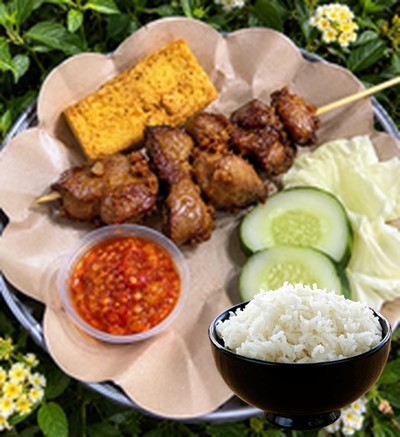
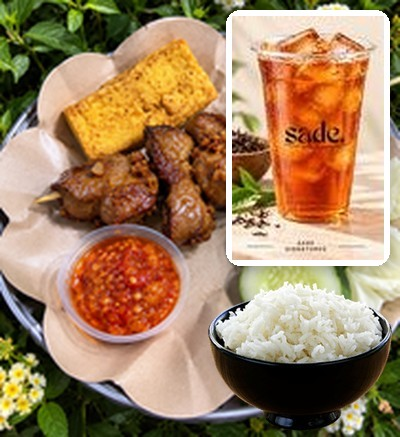
Paket combo: keterangan termasuk Es Teh Regular + foto teh di semua paket
Claude-Session: https://claude.ai/code/session_01Acsdf56UjXXRX4DBNYomy2

Changed region(s): [[0.54, 0.0, 0.99, 0.6247]]

diff --git a/index.html b/index.html
@@ -45,6 +45,7 @@ h1{margin:0;font-size:36px;font-weight:800;letter-spacing:-.02em;color:var(--acc
 .ph.drink{object-fit:contain;background:#FBEFE4}
 .ph.none{display:flex;align-items:center;justify-content:center;color:#A0785E;font-size:12px;font-weight:600}
 .ct{display:flex;justify-content:space-between;align-items:flex-start;gap:8px;font-weight:700;font-size:15px;line-height:1.3}
+.inc{align-self:flex-start;margin-top:-6px;background:#FFF1D2;color:#8A0F14;border:1px solid var(--yel);border-radius:99px;padding:3px 10px;font-size:12px;font-weight:700}
 .ct b{font-weight:800;white-space:nowrap;background:var(--yel);color:#5A0A0D;border-radius:99px;padding:3px 10px;font-size:14px}
 .lbl{font-size:12px;font-weight:700;color:var(--mute);margin-bottom:6px}
 .sizes{display:flex;gap:6px}
@@ -239,7 +240,7 @@ var MENU = [
   ['Tea & Fresh','Tea Sade',6000,8000],['Tea & Fresh','Lemon Tea',8000,10000],['Tea & Fresh','Thai Tea',10000,12000],['Tea & Fresh','Iced Orange',8000,10000],
   ['Mocktail','Coffee Cola',13000,15000],['Mocktail','Blue Ocean',13000,15000],['Mocktail','Mountain Dew',13000,15000],['Mocktail','Blue Lagoon',13000,15000],['Mocktail','Berry Orange',13000,15000]
 ];
-var HINT = {'Combo Deals':'Sudah termasuk minuman · NDJ = Nasi Daun Jeruk, NP = Nasi Putih','Lalapan':'Tanpa nasi, tambah nasi di kategori Nasi'};
+var HINT = {'Combo Deals':'Semua paket sudah termasuk Es Teh (Regular) · NDJ = Nasi Daun Jeruk, NP = Nasi Putih','Lalapan':'Tanpa nasi, tambah nasi di kategori Nasi'};
 var DRINKS = ['Coffee','Latte Series','Tea & Fresh','Mocktail'];
 var HARGA_SAMBEL = 3000;   // extra sambel, hanya untuk Lalapan yang dibungkus/diantar
 /* ============================================== */
@@ -277,6 +278,7 @@ function renderMenu(){
     var key = i + '_' + (x[3] ? sz : '');
     h += '<div class="card"><img class="ph'+(drink?' drink':'')+'" src="'+foto(x)+'" alt="'+esc(x[1])+'" loading="lazy" onerror="this.outerHTML=\'<div class=&quot;ph none&quot;>Foto menu</div>\'">'
       + '<div class="ct"><span>'+esc(x[1])+'</span><b class="num">'+rp(price)+'</b></div>'
+      + (x[0] === 'Combo Deals' ? '<div class="inc">Termasuk Es Teh (Regular)</div>' : '')
       + (x[3] ? '<div><div class="lbl">Ukuran</div><div class="sizes"><button type="button" class="sz" data-size="'+i+'" data-v="R" aria-pressed="'+(sz==='R')+'">Regular</button><button type="button" class="sz" data-size="'+i+'" data-v="L" aria-pressed="'+(sz==='L')+'">Large</button></div></div>' : '')
       + '<div class="act"><div class="step"><button type="button" data-q="'+i+'" data-d="-1" aria-label="Kurangi jumlah">−</button><span class="num">'+qty+'</span><button type="button" data-q="'+i+'" data-d="1" aria-label="Tambah jumlah">+</button></div>'
       + '<button type="button" class="add" data-add="'+i+'">'+(S.added===key?'Ditambahkan ✓':'Tambah')+'</button></div></div>';
@@ -307,7 +309,7 @@ function lines(){
 function baseLines(){
   return Object.keys(S.cart).sort(function(a,b){ return parseInt(a,10)-parseInt(b,10); }).map(function(k){
     var p = k.split('_'), x = MENU[+p[0]], u = p[1];
-    return { k:k, x:x, kat:x[0], label: x[1] + (u ? (u==='L' ? ' (Large)' : ' (Regular)') : ''), qty:S.cart[k], harga: u==='L' ? x[3] : x[2] };
+    return { k:k, x:x, kat:x[0], label: x[1] + (u ? (u==='L' ? ' (Large)' : ' (Regular)') : '') + (x[0]==='Combo Deals' ? ' + Es Teh (R)' : ''), qty:S.cart[k], harga: u==='L' ? x[3] : x[2] };
   });
 }
 function pname(pi){ return (S.people[pi]||'').trim() || ('Orang ' + (pi+1)); }
